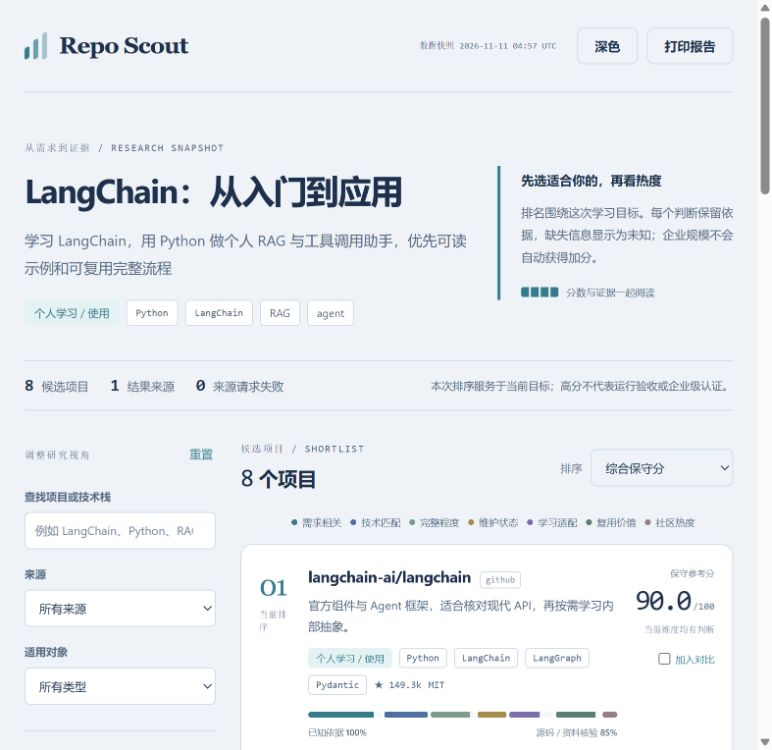
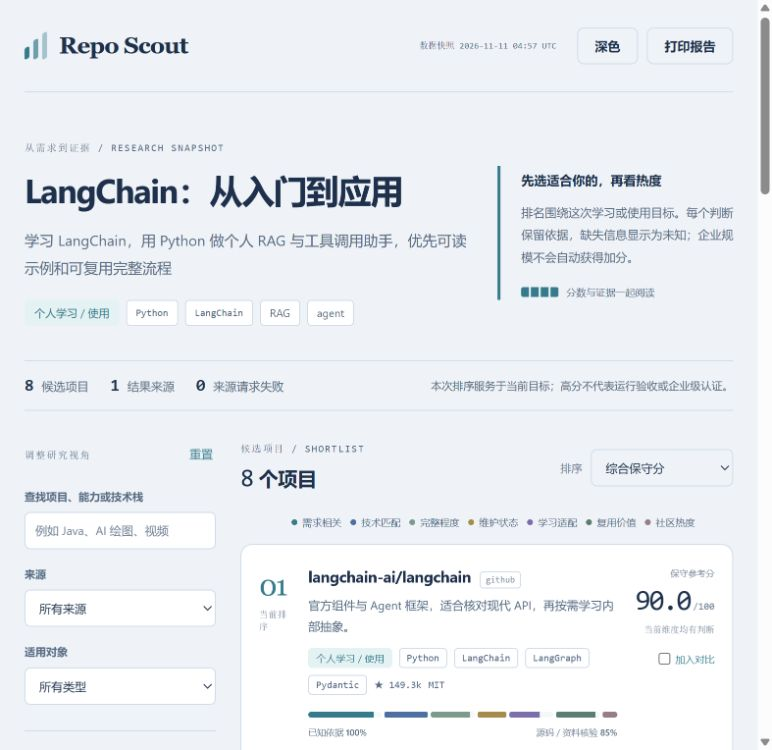
Refresh published demo capture and validation evidence

Changed region(s): [[0.6839, 0.276, 0.9637, 0.368], [0.0933, 0.6747, 0.2487, 0.736], [0.0933, 0.644, 0.1865, 0.6747]]

diff --git a/docs/validation.md b/docs/validation.md
@@ -11,7 +11,7 @@ Date: 2026-11-11. Candidate research is read-only. No candidate packages, model 
 - A real public repository URL was profiled through the CLI without installing its code.
 - Skill metadata validation passed; JavaScript syntax check passed.
 - Bundled LangChain report rebuilds from saved inspected data and assessments without network access. The generated report JSON, HTML and Pages copy are checked for consistency.
-- [Earlier GitHub Actions verification](https://github.com/vieneny/repo-scout/actions/runs/42966198982) passed on Ubuntu and Windows with Python 3.10 and 3.12; the JavaScript job also passed. That run tested implementation commit `234c8b853224cc1bc9a2e8f8d50072b82abdd1ff`, before the broader-scenario expansion. Current run results are available in [Actions](https://github.com/vieneny/repo-scout/actions/workflows/checks.yml).
+- [GitHub Actions verification](https://github.com/vieneny/repo-scout/actions/runs/42981012452) passed on Ubuntu and Windows with Python 3.10 and 3.12; the JavaScript job also passed. That run tested broader-scenario implementation commit `c6b8c9831179ece56b73c590da4cdbd85143ed6f`. Later publication checks are available in [Actions](https://github.com/vieneny/repo-scout/actions/workflows/checks.yml).
 
 ## Live provider scope
 
@@ -33,7 +33,7 @@ Tests of Repo Scout do not prove that candidate projects install, pass tests, sc
 
 ## Browser and publication
 
-The [published HTTPS example](https://vieneny.github.io/repo-scout/) was opened and tested in the in-app browser at its default 772 × 750 viewport. The page had no horizontal overflow at that width, and the captured console contained no errors. This is one browser/viewport check, not a full cross-browser or mobile compatibility certification.
+The [published HTTPS example](https://vieneny.github.io/repo-scout/) was opened and tested in the in-app browser at its default viewport; the unmodified captures are 772 × 750. The page had no document-level horizontal overflow, and the captured console contained no errors. The broader-scenario update was reopened to verify the new search/detail labels, search for `RAGNotebook`, and three-project comparison, then refresh the screenshot. This is one browser/viewport check, not a full cross-browser or mobile compatibility certification.
 
 Verified interactions:
 
